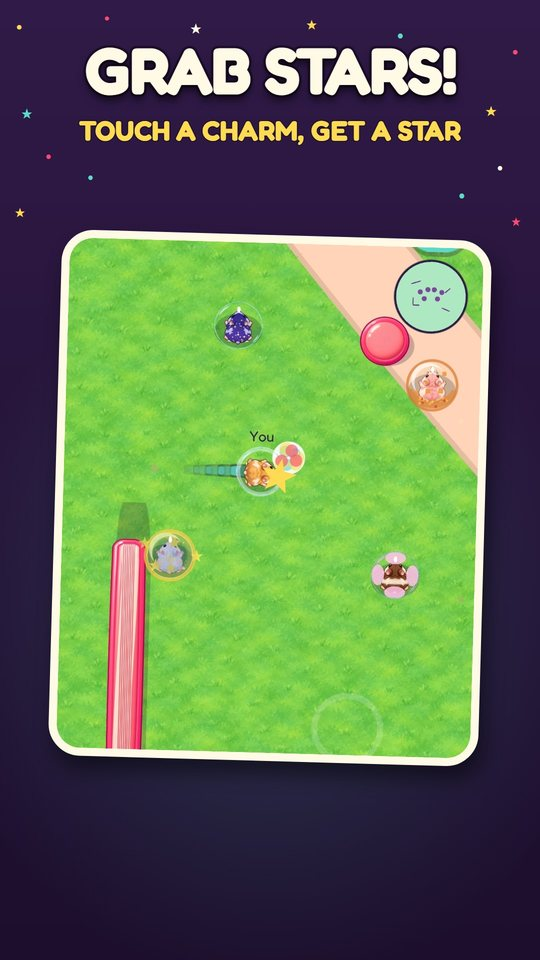
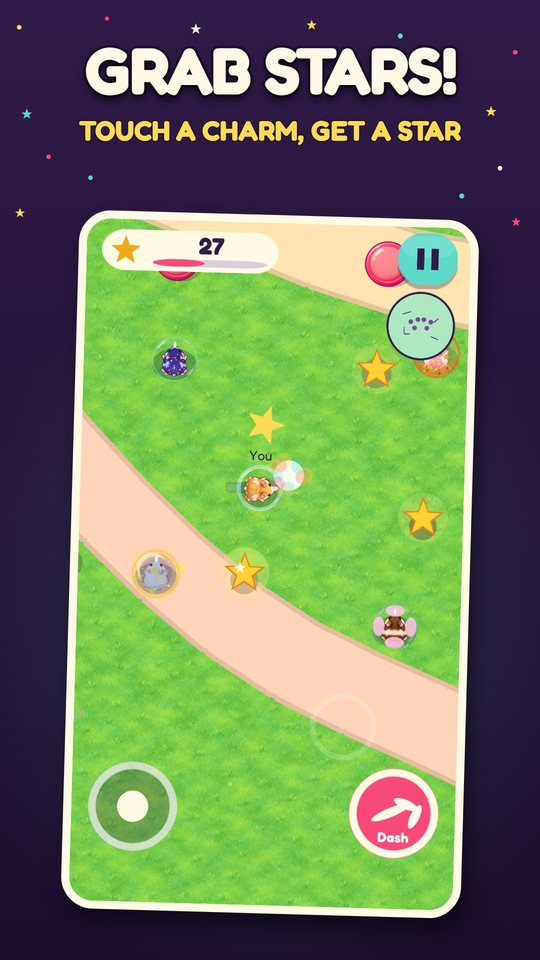
Refresh the star, looks and winner screenshots from the final 0.1.8 captures

diff --git a/hamster-bounce/index.html b/hamster-bounce/index.html
@@ -81,7 +81,7 @@ footer nav { display: flex; flex-wrap: wrap; gap: 8px 20px; margin-bottom: 12px;
       <img src="img/shot-2.jpg" width="540" height="960" loading="lazy" alt="Bonk! A charged dash hits a rival with a big impact star.">
       <img src="img/shot-3.jpg" width="540" height="960" loading="lazy" alt="Boom, Stone and Float skill bubbles on the island, and each skill ready on the skill button.">
       <img src="img/shot-4.jpg" width="540" height="960" loading="lazy" alt="Don't fall: a hamster floats on a balloon over a hole in the crumbling island.">
-      <img src="img/shot-5.jpg" width="540" height="960" loading="lazy" alt="Grab stars: a star flies up from a touched star charm in Free Roam.">
+      <img src="img/shot-5.jpg" width="540" height="960" loading="lazy" alt="Grab stars: in Free Roam a touched charm's star flies into the star counter, with more charms nearby.">
       <img src="img/shot-6.jpg" width="540" height="960" loading="lazy" alt="Over 50 looks: hamsters, balls and trails in the collection.">
       <img src="img/shot-7.jpg" width="540" height="960" loading="lazy" alt="One winner: the last hamster rolling wins the round.">
     </div>
